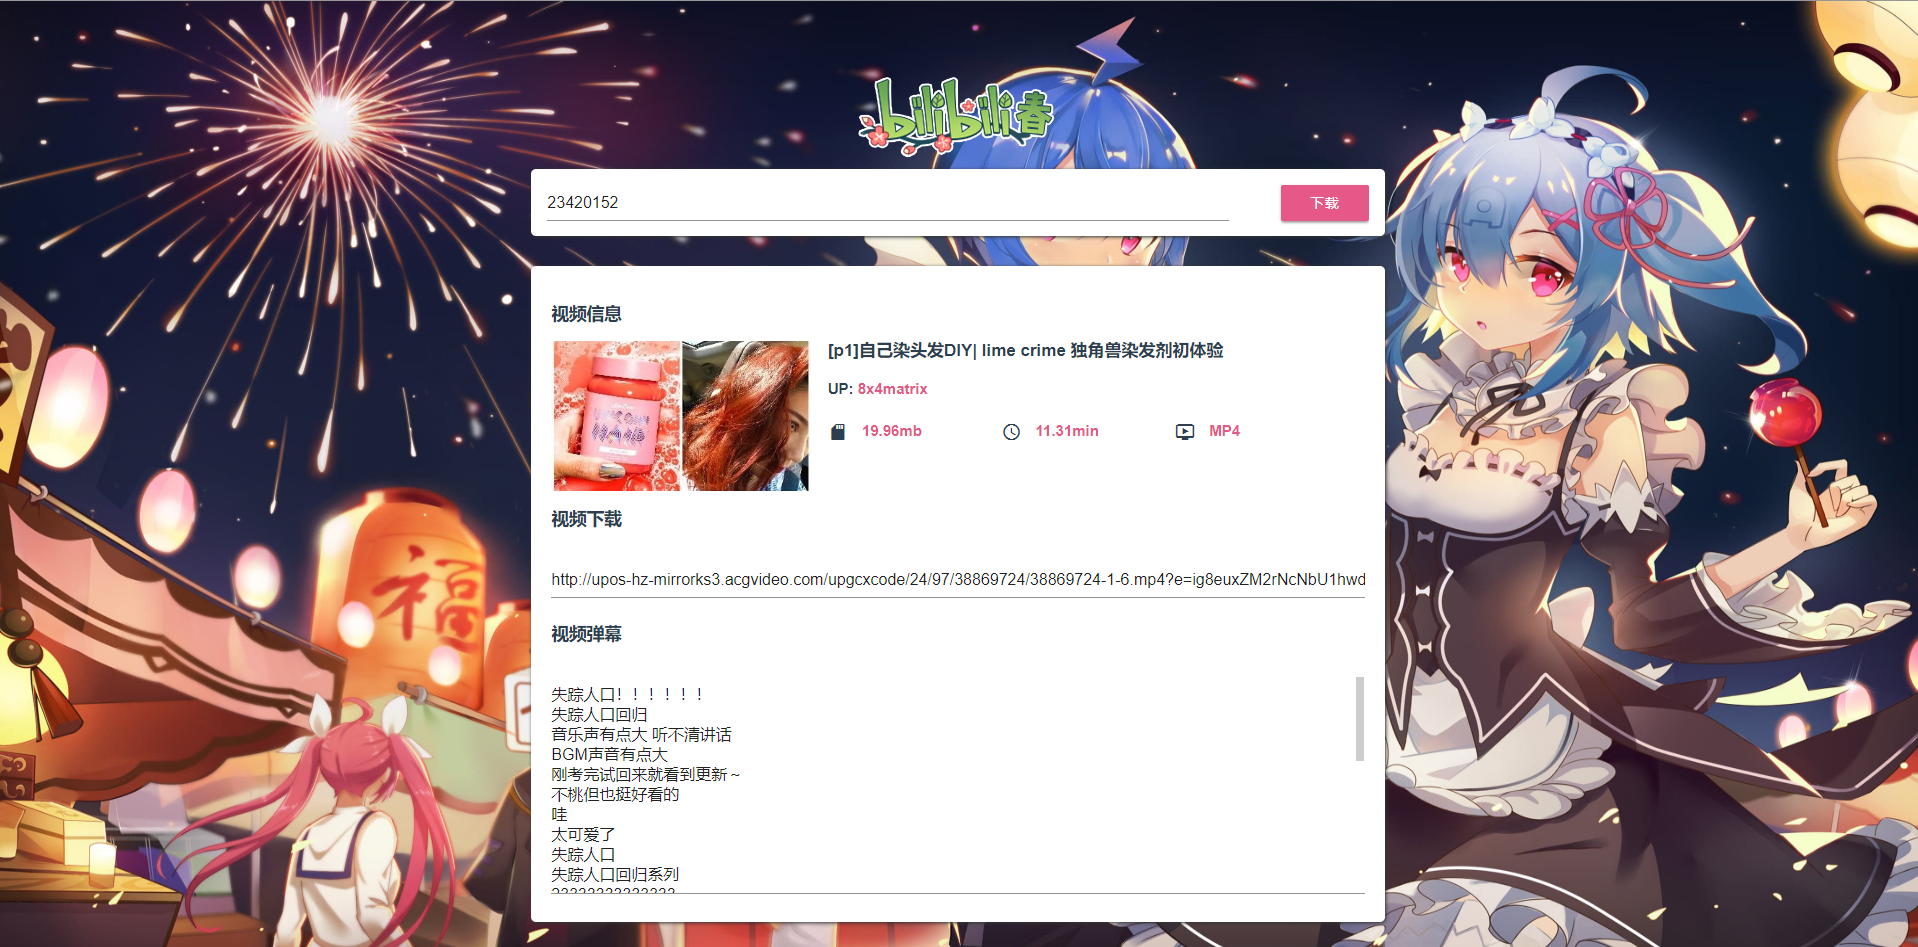
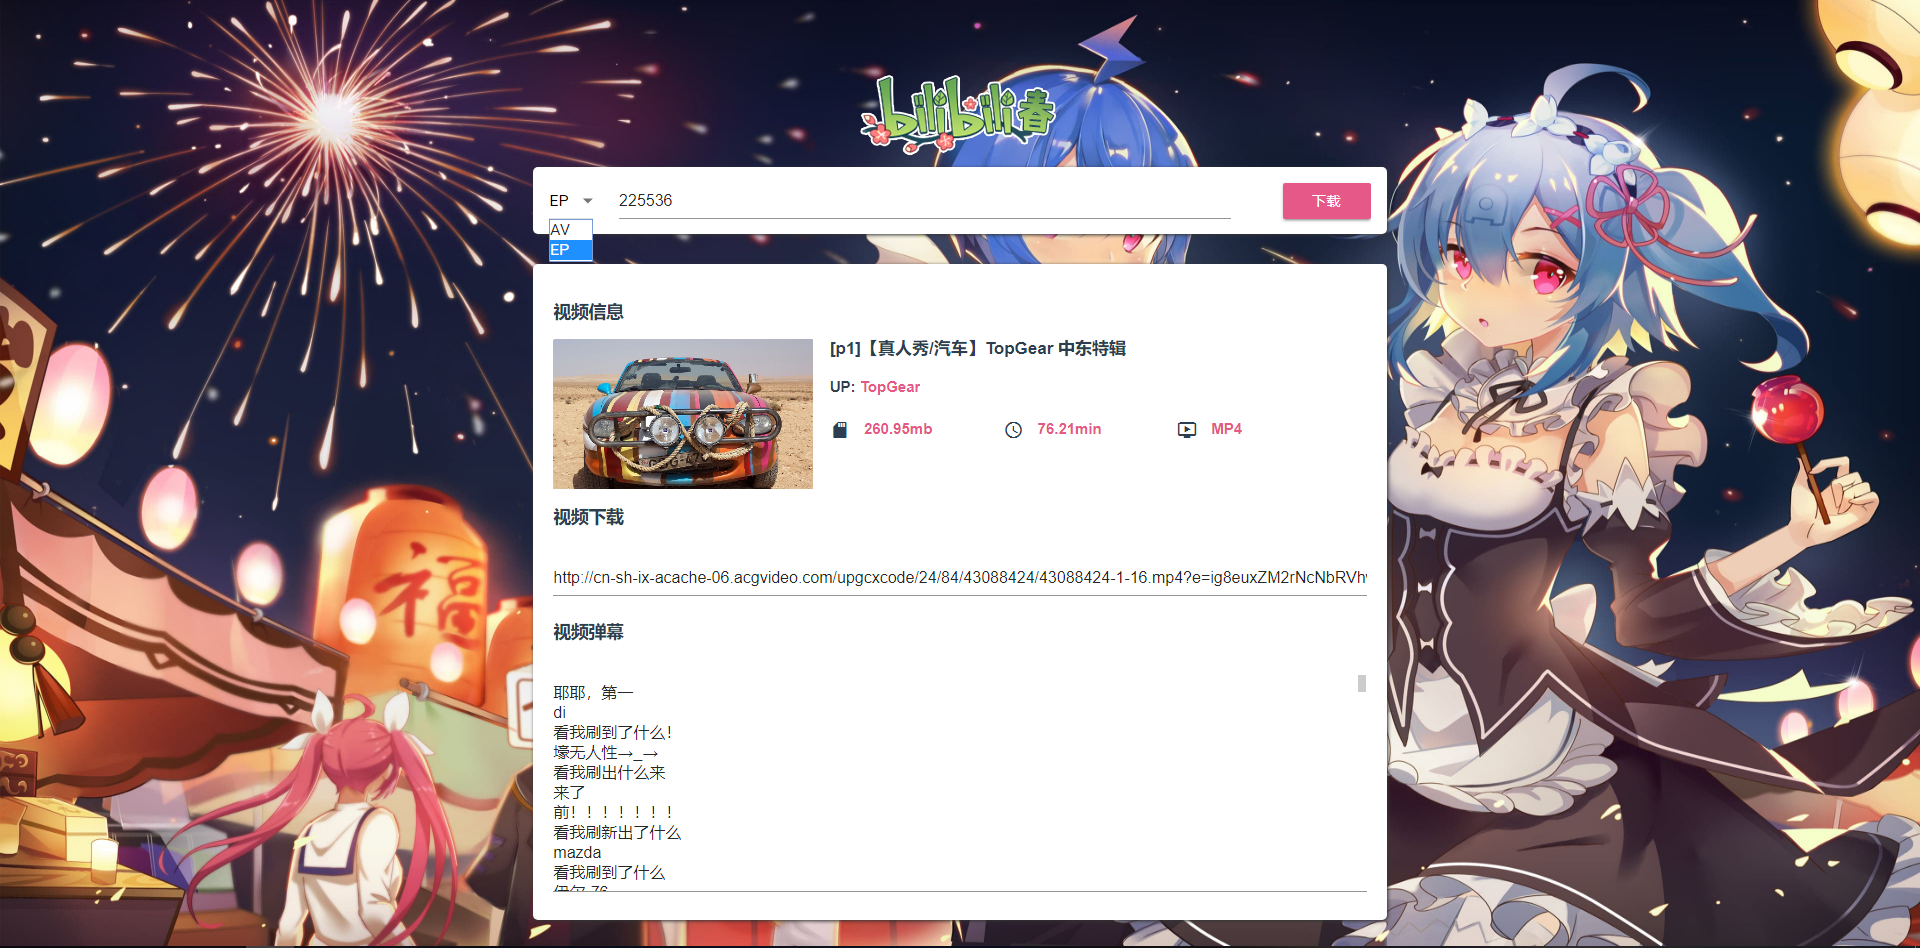
添加ep下载功能

diff --git a/src/App.vue b/src/App.vue
@@ -7,14 +7,22 @@
       <div class="mdui-row">
         <div class="mdui-col-sm-2"></div>
         <div class="mdui-col-sm-8 search-bar">
-          <div class="mdui-col-sm-10">
+          <div class="mdui-col-sm-1 mdui-text-left">
             <div class="mdui-textfield">
-              <input class="mdui-textfield-input" type="text" v-model="avNum" placeholder="请输入AV号"/>
+              <select class="mdui-select" v-model="downloadType">
+                <option value="AV">AV</option>
+                <option value="EP">EP</option>
+              </select>
+            </div>
+          </div>
+          <div class="mdui-col-sm-9">
+            <div class="mdui-textfield">
+              <input class="mdui-textfield-input" type="text" v-model="avNum" :placeholder="downloadType == 'AV'?'请输入AV号':'请输入EP号'"/>
             </div>
           </div>
           <div class="mdui-col-sm-2 mdui-text-right">
             <div class="mdui-textfield">
-              <button class="mdui-btn mdui-btn-raised mdui-ripple mdui-color-theme-accent" @click="checkAvNum">下载</button>
+              <button class="mdui-btn mdui-btn-raised mdui-ripple mdui-color-theme-accent" @click="checkIsAvNum">下载</button>
             </div>
           </div>
         </div>
@@ -40,6 +48,7 @@
     },
     data () {
       return {
+        downloadType: 'AV',
         avNum: '',
         flag: false,
         video: {
@@ -67,11 +76,31 @@
       }
     },
     methods: {
-      checkAvNum(){
+      epToav(){
+        let url = '/bangumi/play/ep' + this.avNum;
+        axios.get(url)
+          .then(result => {
+            let str = (result.data).replace(/[\r\n ]/g,"");
+            let str1 = str.match(/"epInfo":(\S*),"epList"/)[1];
+            let res = JSON.parse(str1);
+            this.checkAvNum(res.aid);
+          })
+          .catch(error => {
+            console.log('ep转av失败!!!');
+          })
+      },
+      checkIsAvNum(){
+        if (this.downloadType === 'AV'){
+          this.checkAvNum(this.avNum);
+        }else {
+          this.epToav();
+        }
+      },
+      checkAvNum(AVNUM){
         let that = this;
         let url = 'http://api.bilibili.com/playurl';
         let data = {
-          aid: this.avNum,
+          aid: AVNUM,
           page: 2,
           platform: 'html5',
           quality: 1,
@@ -79,6 +108,7 @@
           type: 'jsonp',
           token: 'd3bd9275f0f2cda07f2406740db06c5d'
         };
+        console.log(data);
         let options = {
           param: 'callback'
         };
@@ -89,7 +119,7 @@
               console.log('多p');
               mdui.prompt('这是一个分P视频，请输入分P号',
                 function (value) {
-                  that.getAllInfo(value)
+                  that.getAllInfo(value,AVNUM)
                 },
                 function (value) {},
                 {
@@ -99,21 +129,21 @@
               );
             }else {
               console.log('单p');
-              that.getAllInfo(1);
+              that.getAllInfo(1,AVNUM);
             }
           })
           .catch(err => {
             console.log('检查av号出错!');
           })
       },
-      getAllInfo(value){
+      getAllInfo(value,avNum){
         let that = this;
         let url = 'http://api.bilibili.com/view';
         let data = {
           type: 'jsonp',
           appkey: '8e9fc618fbd41e28',
           page: 1,
-          id: this.avNum
+          id: avNum
         };
         let options = {
           param: 'callback'
@@ -134,7 +164,7 @@
             that.video.videoUpLink = upLink;
             let url = 'http://api.bilibili.com/playurl';
             let data = {
-              aid: this.avNum,
+              aid: avNum,
               page: value,
               platform: 'html5',
               quality: 1,

diff --git a/config/index.js b/config/index.js
@@ -18,12 +18,8 @@ module.exports = {
           '^/comment': '/'
         }
       },
-      '/view': {
-        target: 'http://api.bilibili.com/view',
-        changeOrigin: true
-      },
-      '/playurl': {
-        target: 'http://api.bilibili.com/playurl',
+      '/bangumi/': {
+        target: 'https://www.bilibili.com',
         changeOrigin: true
       }
     },

diff --git a/README.md b/README.md
@@ -3,6 +3,19 @@
 PC端下载bilibili视频(Material Design风格)
 ### 版本
 ----
+
+v1.4.0 `2018-06-26`
+
+添加EP下载功能，使用nginx做反向代理
+
+**注：由于技术有限,目前av,ep下载的视频都是320p**
+
+```
+location /bangumi/ {
+	proxy_pass https://www.bilibili.com;     
+}
+```
+
 v1.3.1 `2018-06-16`
 
 修复弹幕获取失败，使用nginx做反向代理
